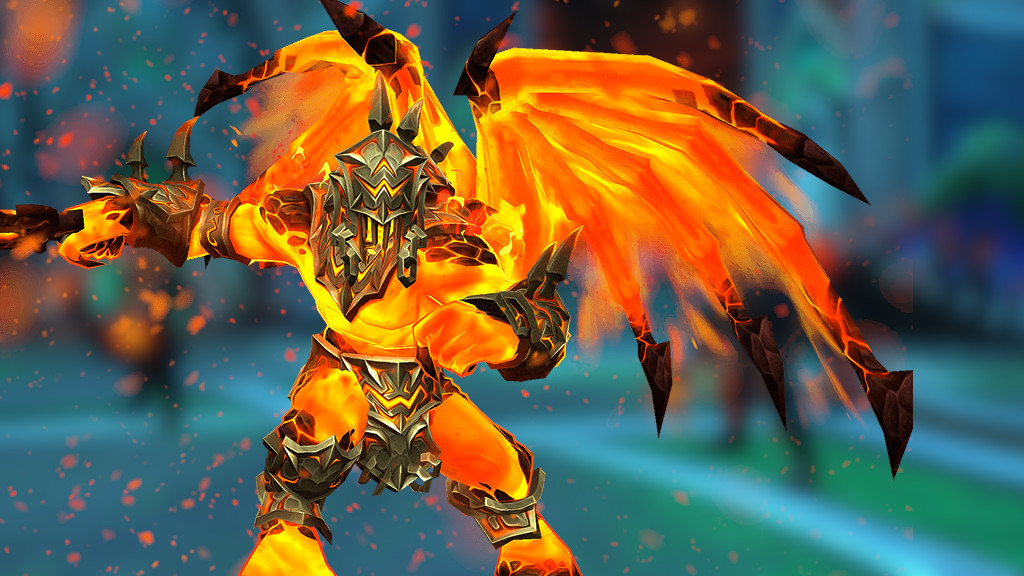
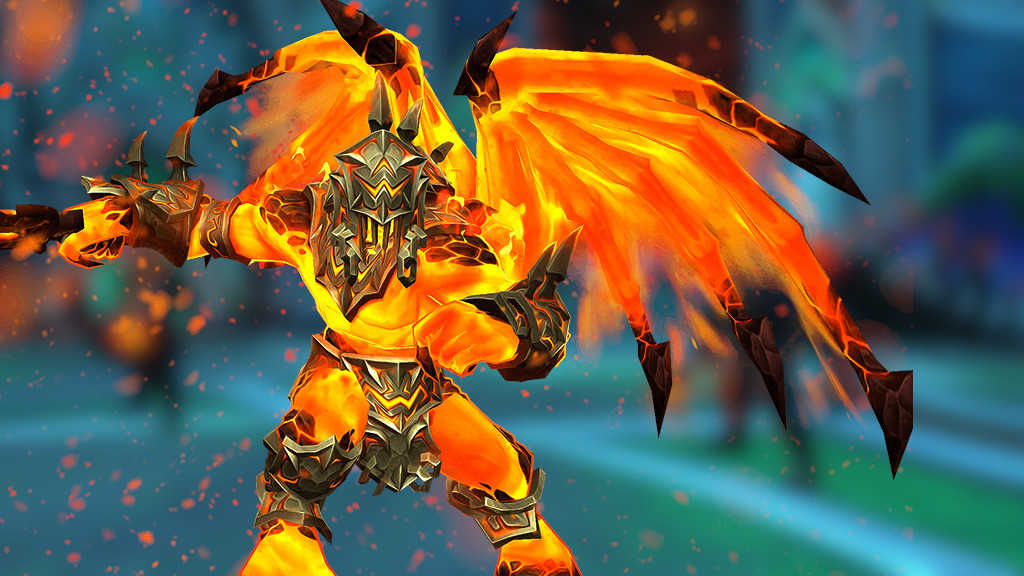
refactor: add more compression to images

diff --git a/resources/views/livewire/raid-select.blade.php b/resources/views/livewire/raid-select.blade.php
@@ -4,7 +4,7 @@
         @foreach($raids as $raid)
             <a
                 class="rounded-md shadow-md hover:shadow-2xl h-[180px] cursor-pointer transition-[box-shadow] bg-center bg-cover flex items-end justify-center"
-                style="background-image: url({{asset("images/blizzard/raids/{$raid->slug}/select.png")}})"
+                style="background-image: url({{asset("images/blizzard/raids/{$raid->slug}/select.jpg")}})"
                 href="{{ route('encounter-select', ['raid' => $raid->slug]) }}"
             >
                 <div
